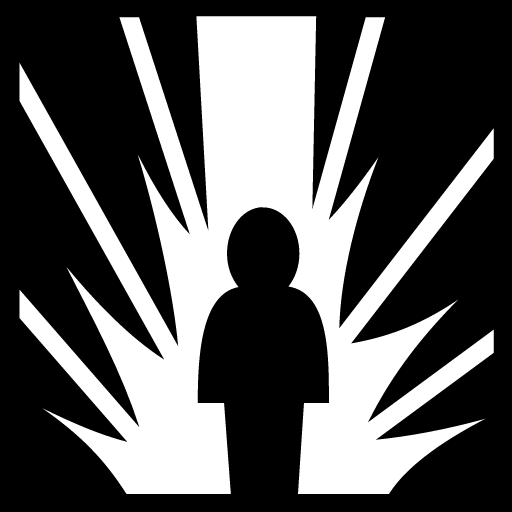
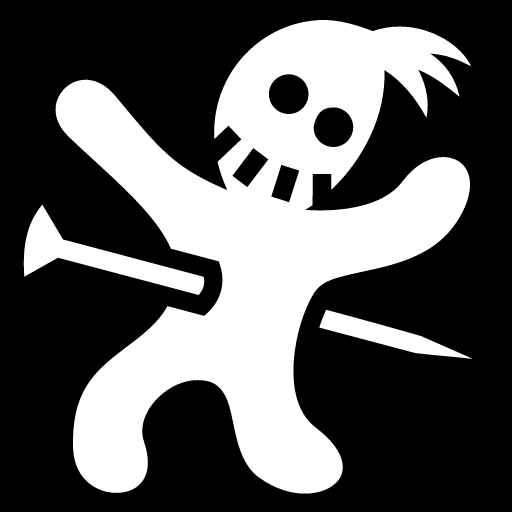
feat(art): 신규 공성 카드 + 본체 일러스트 추가
- Cannon / Overrun / segfault() 카드 아트 추가 (art-map.js 매핑, pos/fit 지정)
- __body0 / __body1 본체 아트 추가
- Fiber / Overflow / Surge / Conduit 포지션 재조정
- index.html 스크립트 캐시버전 v34→v35 (art-map.js 갱신 반영)

diff --git a/index.html b/index.html
@@ -617,16 +617,16 @@
       style="max-width: 1180px; margin: 0 auto; padding: clamp(3px, 0.5vw, 7px)"
     ></div>
     <!-- v 쿼리로 캐시 무효화 — 배포 때마다 숫자를 올리면 브라우저/CDN 캐시가 즉시 갱신됨 -->
-    <script src="cards.js?v=34"></script>
-    <script src="decks.js?v=34"></script>
-    <script src="engine.js?v=34"></script>
-    <script src="art-map.js?v=34"></script>
+    <script src="cards.js?v=35"></script>
+    <script src="decks.js?v=35"></script>
+    <script src="engine.js?v=35"></script>
+    <script src="art-map.js?v=35"></script>
     <!-- ui.js 를 화면별 모듈로 분리(2026-07): 독립(sound/theme) → core(상태+매치+보드+AI) → 화면(title/tutorial).
      로드 순서 중요: sound/theme 가 core 보다 먼저(UI.Sound/UI.SKIN 준비), title/tutorial 은 core 뒤(공유 헬퍼 준비). -->
-    <script src="sound.js?v=34"></script>
-    <script src="theme.js?v=34"></script>
-    <script src="core.js?v=34"></script>
-    <script src="title.js?v=34"></script>
-    <script src="tutorial.js?v=34"></script>
+    <script src="sound.js?v=35"></script>
+    <script src="theme.js?v=35"></script>
+    <script src="core.js?v=35"></script>
+    <script src="title.js?v=35"></script>
+    <script src="tutorial.js?v=35"></script>
   </body>
 </html>

diff --git a/art-map.js b/art-map.js
@@ -9,16 +9,17 @@ window.RT_ART = {
   "Byte": "art/Byte.png",
   "Cache": "art/Cache.png",
   "Callback": "art/Callback.png",
+  "Cannon": { src: "art/Cannon.png", pos: "44% 56%", fit: "cover" },
   "Coerce": "art/Coerce.png",
   "Compile": "art/Compile.png",
-  "Conduit": "art/Conduit.png",
+  "Conduit": { src: "art/Conduit.png", pos: "48% 13%", fit: "cover" },
   "Const": "art/Const.png",
   "Cursor": "art/Cursor.png",
   "Daemon": "art/Daemon.png",
   "Delete": "art/Delete.png",
   "Exec": "art/Exec.png",
   "Exploit": "art/Exploit.png",
-  "Fiber": "art/Fiber.png",
+  "Fiber": { src: "art/Fiber.png", pos: "50% 9%", fit: "cover" },
   "Firewall": "art/Firewall.png",
   "Flag": "art/Flag.png",
   "HalfClone": "art/HalfClone.png",
@@ -40,8 +41,9 @@ window.RT_ART = {
   "Mutex": "art/Mutex.png",
   "Noop": "art/Noop.png",
   "Null": "art/Null.png",
-  "Overflow": "art/Overflow.png",
+  "Overflow": { src: "art/Overflow.png", pos: "51% 12%", fit: "cover" },
   "Overlord": "art/Overlord.png",
+  "Overrun": { src: "art/Overrun.png", pos: "56% 66%", fit: "cover" },
   "Page": "art/Page.png",
   "Panic": "art/Panic.png",
   "Persist": { src: "art/Persist.png", pos: "50% 40%", fit: "cover" },
@@ -69,7 +71,7 @@ window.RT_ART = {
   "Spike": "art/Spike.png",
   "Stack": "art/Stack.png",
   "Stub": "art/Stub.png",
-  "Surge": "art/Surge.png",
+  "Surge": { src: "art/Surge.png", pos: "51% 67%", fit: "cover" },
   "Sweeper": "art/Sweeper.png",
   "Token": "art/Token.png",
   "Token2": "art/Token2.png",
@@ -85,6 +87,8 @@ window.RT_ART = {
   "Watchdog": "art/Watchdog.png",
   "Worker": "art/Worker.png",
   "Zygote": "art/Zygote.png",
+  "__body0": "art/__body0.png",
+  "__body1": "art/__body1.png",
   "amplify()": "art/amplify_fn.png",
   "assert()": "art/assert_fn.png",
   "barrier()": "art/barrier_fn.png",
@@ -125,6 +129,7 @@ window.RT_ART = {
   "reflect()": "art/reflect_fn.png",
   "restore()": "art/restore_fn.png",
   "rush()": "art/rush_fn.png",
+  "segfault()": { src: "art/segfault_fn.png", pos: "59% 57%", fit: "cover" },
   "shift()": "art/shift_fn.png",
   "siphon()": "art/siphon_fn.png",
   "snipe()": "art/snipe_fn.png",
@@ -134,7 +139,7 @@ window.RT_ART = {
   "sync()": "art/sync_fn.png",
   "throw()": "art/throw_fn.png",
   "trace()": "art/trace_fn.png",
-  "volt()": "art/volt_fn.png",
+  "volt()": { src: "art/volt_fn.png", pos: "50% 6%", fit: "cover" },
   "wait()": "art/wait_fn.png",
   "wall()": "art/wall_fn.png",
   "yield()": "art/yield_fn.png",